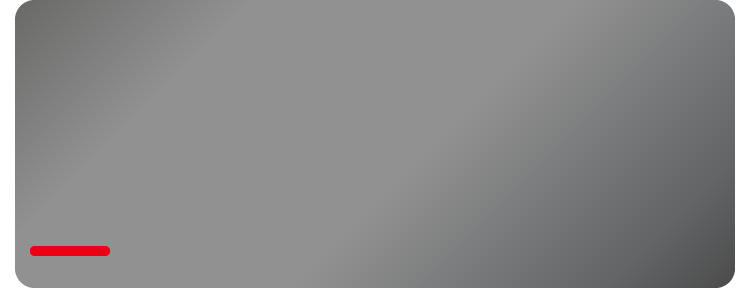
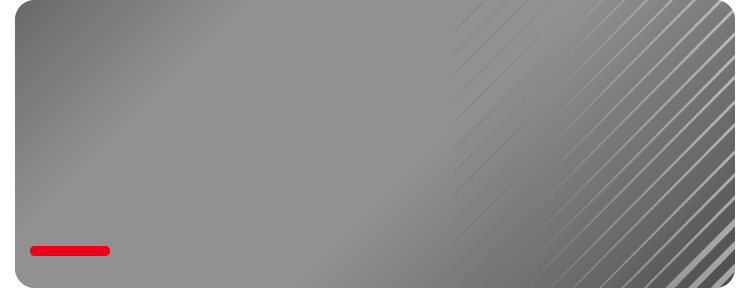
add pattern to bb background

Changed region(s): [[0.7973, 0.0, 0.9813, 1.0], [0.7973, 0.9375, 0.828, 0.9688], [0.7973, 0.75, 0.828, 0.7812]]

diff --git a/main/bahnbonus/products.py b/main/bahnbonus/products.py
@@ -1,11 +1,11 @@
 import dataclasses
 import typing
 
-BORDGASTRONOMIE_30 = "N10001311299"
+BORDGASTRONOMIE_30         = "N10001311299"
 BORDGASTRONOMIE_GUTSHEIN_5 = "N00014311299"
-LOUNGE_PREMIUM     = "LOUUP0010000"
-LOUNGE_STANDARD    = "LOUUS0010000"
-BAHNBONUS          = "BB0001661749"
+LOUNGE_PREMIUM             = "LOUUP0010000"
+LOUNGE_STANDARD            = "LOUUS0010000"
+BAHNBONUS                  = "BB0001661749"
 
 @dataclasses.dataclass
 class Product: